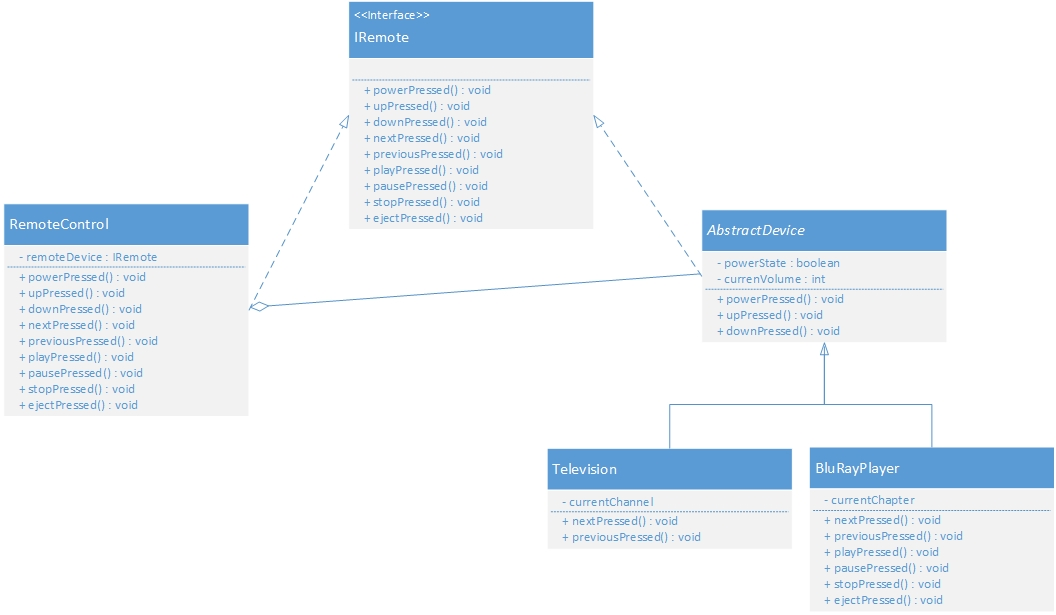
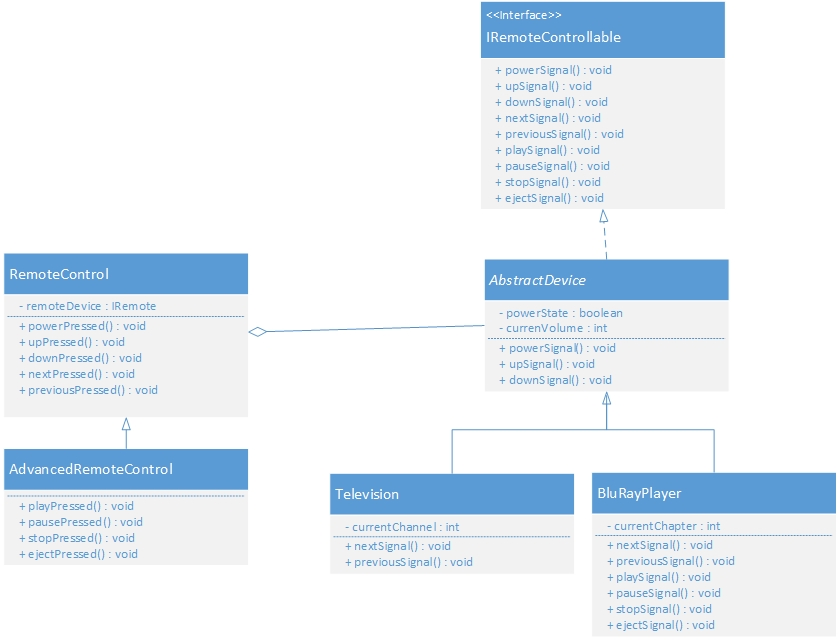
update

diff --git a/src/example/bridge/RemoteControl.java b/src/example/bridge/RemoteControl.java
@@ -1,59 +1,38 @@
 package example.bridge;
 
-public class RemoteControl implements IRemote {
+/**
+ * Base remote control that supports
+ * POWER, UP, DOWN, NEXT, PREVIOUS commands.
+ */
+public class RemoteControl {
 
-    private IRemote remoteDevice;
+    protected IRemoteControllable remoteDevice;
     
-    public RemoteControl(IRemote remoteDevice) {
+    public RemoteControl(IRemoteControllable remoteDevice) {
         this.remoteDevice = remoteDevice;
     }
     
-    public void setRemoteDevice(IRemote remoteDevice) {
+    public void setRemoteDevice(IRemoteControllable remoteDevice) {
         this.remoteDevice = remoteDevice;
     }
     
-    @Override
     public void powerPressed() {
-        remoteDevice.powerPressed();
+        remoteDevice.powerSignal();
     }
 
-    @Override
     public void upPressed() {
-        remoteDevice.upPressed();
+        remoteDevice.upSignal();
     }
 
-    @Override
     public void downPressed() {
-        remoteDevice.downPressed();
+        remoteDevice.downSignal();
     }
 
-    @Override
     public void nextPressed() {
-        remoteDevice.nextPressed();
+        remoteDevice.nextSignal();
     }
-
-    @Override
+    
     public void previousPressed() {
-        remoteDevice.previousPressed();
-    }
-
-    @Override
-    public void playPressed() {
-        remoteDevice.playPressed();
-    }
-
-    @Override
-    public void pausePressed() {
-        remoteDevice.pausePressed();
-    }
-
-    @Override
-    public void stopPressed() {
-        remoteDevice.stopPressed();
-    }
-
-    @Override
-    public void ejectPressed() {
-        remoteDevice.ejectPressed();
+        remoteDevice.previousSignal();
     }
 }

diff --git a/src/example/bridge/Television.java b/src/example/bridge/Television.java
@@ -1,8 +1,8 @@
 package example.bridge;
 
 /**
- * By pressing NEXT or PREVIOUS on the remote device
- * the television will switch the channel accordingly.
+ * By pressing NEXT or PREVIOUS on the remote control
+ * the television will skip to next or previous channel.
  */
 public class Television extends AbstractDevice {
 
@@ -13,7 +13,7 @@ public class Television extends AbstractDevice {
      * Go to next channel.
      */
     @Override
-    public void nextPressed() {
+    public void nextSignal() {
         // no validation
         this.currentChannel +=1;
         System.out.println("tv next channel");
@@ -24,21 +24,21 @@ public class Television extends AbstractDevice {
      * Go to previous channel. 
      */
     @Override
-    public void previousPressed() {
+    public void previousSignal() {
         // no validation
         this.currentChannel -= 1;
         System.out.println("tv previous channel");
     }
 
     @Override
-    public void playPressed() { /* play not supported by this device */ }
+    public void playSignal() { /* play not supported by this device */ }
 
     @Override
-    public void pausePressed() { /* pause not supported by this device */ }
+    public void pauseSignal() { /* pause not supported by this device */ }
 
     @Override
-    public void stopPressed() { /* stop no supported by this device */ }
+    public void stopSignal() { /* stop no supported by this device */ }
 
     @Override
-    public void ejectPressed() { /* eject not supported by this device */ }
+    public void ejectSignal() { /* eject not supported by this device */ }
 }

diff --git a/src/example/bridge/AbstractDevice.java b/src/example/bridge/AbstractDevice.java
@@ -4,10 +4,10 @@ package example.bridge;
  * The base functionality that is the same for
  * all remote devices (television, blu-ray player).
  * 
- * Both devices can be turned off and on.
+ * Both devices can be turned on and off.
  * Both devices offer the possiblity to change the current volume.
  */
-public abstract class AbstractDevice implements IRemote {
+public abstract class AbstractDevice implements IRemoteControllable {
     
     private boolean powerState; /* on/off */
     private int currentVolume;
@@ -17,8 +17,13 @@ public abstract class AbstractDevice implements IRemote {
      * Switches the device on or off.
      */
     @Override
-    public void powerPressed() {
+    public void powerSignal() {
         this.powerState = !this.powerState;
+        if(this.powerState) {
+            System.out.println("Device "+ this.getClass().getSimpleName() +" switched on");
+        } else {
+            System.out.println("Device "+ this.getClass().getSimpleName() + " switched off");
+        }
     }
 
     /**
@@ -26,7 +31,7 @@ public abstract class AbstractDevice implements IRemote {
      * Turns volume up.
      */
     @Override
-    public void upPressed() {
+    public void upSignal() {
         // no validation
         this.currentVolume += 1;
     }
@@ -36,7 +41,7 @@ public abstract class AbstractDevice implements IRemote {
      * Turns volume down.
      */    
     @Override
-    public void downPressed() {
+    public void downSignal() {
         // no validation
         this.currentVolume -= 1;
     }

diff --git a/src/MainApp.java b/src/MainApp.java
@@ -1,15 +1,31 @@
 
 import example.bridge.BluRayPlayer;
 import example.bridge.RemoteControl;
+import example.bridge.RemoteControlAdvanced;
 import example.bridge.Television;
 
 public class MainApp {  
-    public static void main(String[] args) {
-        RemoteControl control = new RemoteControl(new Television());
-        control.nextPressed();
-        control.setRemoteDevice(new BluRayPlayer());
-        control.playPressed();
-        control.nextPressed();
-        control.stopPressed();
+    public static void main(String[] args) {    
+        Television tv = new Television();
+        BluRayPlayer brPlayer = new BluRayPlayer();
+        
+        // use base remote control to
+        // switch on the tv and the blu-ray player
+        RemoteControl rcS = new RemoteControl(brPlayer);
+        rcS.powerPressed();
+        rcS.setRemoteDevice(tv);
+        rcS.powerPressed();
+        rcS.nextPressed(); // send next channel command to the tv
+        
+        // use the advanced remote control to send the play signal
+        // to the blu-ray player and stop the playback afterwards
+        RemoteControlAdvanced rcA = new RemoteControlAdvanced(brPlayer);
+        rcA.playPressed();
+        rcA.stopPressed();
+        
+        // switch both devices off
+        rcA.powerPressed();
+        rcA.setRemoteDevice(tv);
+        rcA.powerPressed();
     }
 }

diff --git a/src/example/bridge/BluRayPlayer.java b/src/example/bridge/BluRayPlayer.java
@@ -9,36 +9,36 @@ public class BluRayPlayer extends AbstractDevice {
     private int currentChapter;
     
     @Override
-    public void nextPressed() {
+    public void nextSignal() {
         // no validation
         this.currentChapter += 1;
         System.out.println("blue-ray player next chapter");
     }
 
     @Override
-    public void previousPressed() {
+    public void previousSignal() {
         // no validation
         this.currentChapter -= 1;
         System.out.println("blue-ray player previous chapter");
     }
 
     @Override
-    public void playPressed() {
+    public void playSignal() {
         System.out.println("blue-ray player play");
     }
 
     @Override
-    public void pausePressed() {
+    public void pauseSignal() {
         System.out.println("blue-ray player pause");
     }
 
     @Override
-    public void stopPressed() {
+    public void stopSignal() {
         System.out.println("blue-ray player stop");
     }
 
     @Override
-    public void ejectPressed() {
+    public void ejectSignal() {
         System.out.println("blue-ray player eject");
     }
 }

diff --git a/src/example/bridge/RemoteControlAdvanced.java b/src/example/bridge/RemoteControlAdvanced.java
@@ -1,0 +1,28 @@
+package example.bridge;
+
+/**
+ * Advanced remote control with additional support for 
+ * PLAY, PAUSE, STOP, EJECT commands.
+ */
+public class RemoteControlAdvanced extends RemoteControl {
+
+    public RemoteControlAdvanced(IRemoteControllable remoteDevice) {
+        super(remoteDevice);
+    }
+
+    public void playPressed() {
+        remoteDevice.playSignal();
+    }
+
+    public void pausePressed() {
+        remoteDevice.pauseSignal();
+    }
+
+    public void stopPressed() {
+        remoteDevice.stopSignal();
+    }
+
+    public void ejectPressed() {
+        remoteDevice.ejectSignal();
+    }   
+}

diff --git a/src/example/bridge/IRemoteControllable.java b/src/example/bridge/IRemoteControllable.java
@@ -1,0 +1,17 @@
+package example.bridge;
+
+/**
+ * Every remote device (television, blu-ray player) that can be controlled 
+ * by a remote control understands this commands.
+ */
+public interface IRemoteControllable {
+    public void powerSignal();
+    public void upSignal();
+    public void downSignal();
+    public void nextSignal();
+    public void previousSignal();
+    public void playSignal();
+    public void pauseSignal();
+    public void stopSignal();
+    public void ejectSignal();
+}
